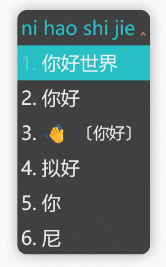
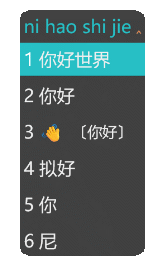
feat: 适配新的主题
- 适配新的主题样式

diff --git a/README_en.md b/README_en.md
@@ -32,6 +32,10 @@ The input method scheme included:
 
 You can switch between input methods by pressing "Ctrl" + "~" after installation. (Mint Pinyin is activated by default).
 
+Currently, Mint comes with two sets of skins: blue series and green series. You can freely choose to activate within the personalized configuration of Squirrel and Weasel , or you can use your own color matching (it is recommended to use custom to overwrite the mint configuration) (https://www.minitimate.cc/zh/guide /configurationOverride.html#%E4%BF%AE%E6%94%B9%E8%96%84%E8%8D%B7%E8%BE%93%E5%85%A5%E6%B3%95%E7% 9A%84%E9%85%8D%E7%BD%AE)).
+
+![Display effect](https://www.minitimate.cc/image/demo/themeOfOhMyRime.webp)
+
 ### Install
 
 The following tutorials are available for Linux, macOS and Windows (Xp~)

diff --git a/README.md b/README.md
@@ -32,6 +32,11 @@ Rime 配置教程：
 
 你可以在安装后，使用『Ctrl』+『~』进行切换。（默认激活的是『薄荷拼音-全拼输入』）。
 
+目前薄荷内自带两套皮肤： 水鸭系列、青涩系列。大家可以在鼠须管和小狼毫的个性化配置内自由选择激活，也可以使用自己的配色（推荐[使用 custom 对薄荷配置进行覆写](https://www.mintimate.cc/zh/guide/configurationOverride.html#%E4%BF%AE%E6%94%B9%E8%96%84%E8%8D%B7%E8%BE%93%E5%85%A5%E6%B3%95%E7%9A%84%E9%85%8D%E7%BD%AE)）。
+
+![显示效果](https://www.mintimate.cc/image/demo/themeOfOhMyRime.webp)
+
+
 ### 安装
 
 以下教程，适用于Linux、macOS和Windows（Xp~）

diff --git a/README_zh-CHT.md b/README_zh-CHT.md
@@ -32,6 +32,11 @@ Rime 配置教程：
 
 妳可以在安裝後，使用『Ctrl』+『~』進行切換。（預設激活的是『薄荷拼音-全拼輸入』）。
 
+目前薄荷內自帶兩套皮膚： 水鴨繫列、青澀繫列。大家可以在鼠須管和小狼毫的個性化配置內自由選擇激活，也可以使用自己的配色（推薦[使用 custom 對薄荷配置進行覆寫](https://www.mintimate.cc/zh/guide/configurationOverride.html#%E4%BF%AE%E6%94%B9%E8%96%84%E8%8D%B7%E8%BE%93%E5%85%A5%E6%B3%95%E7%9A%84%E9%85%8D%E7%BD%AE)）。
+
+![顯示效果](https://www.mintimate.cc/image/demo/themeOfOhMyRime.webp)
+
+
 ### 安裝
 
 以下教程，適用於Linux、macOS和Windows（Xp~）
